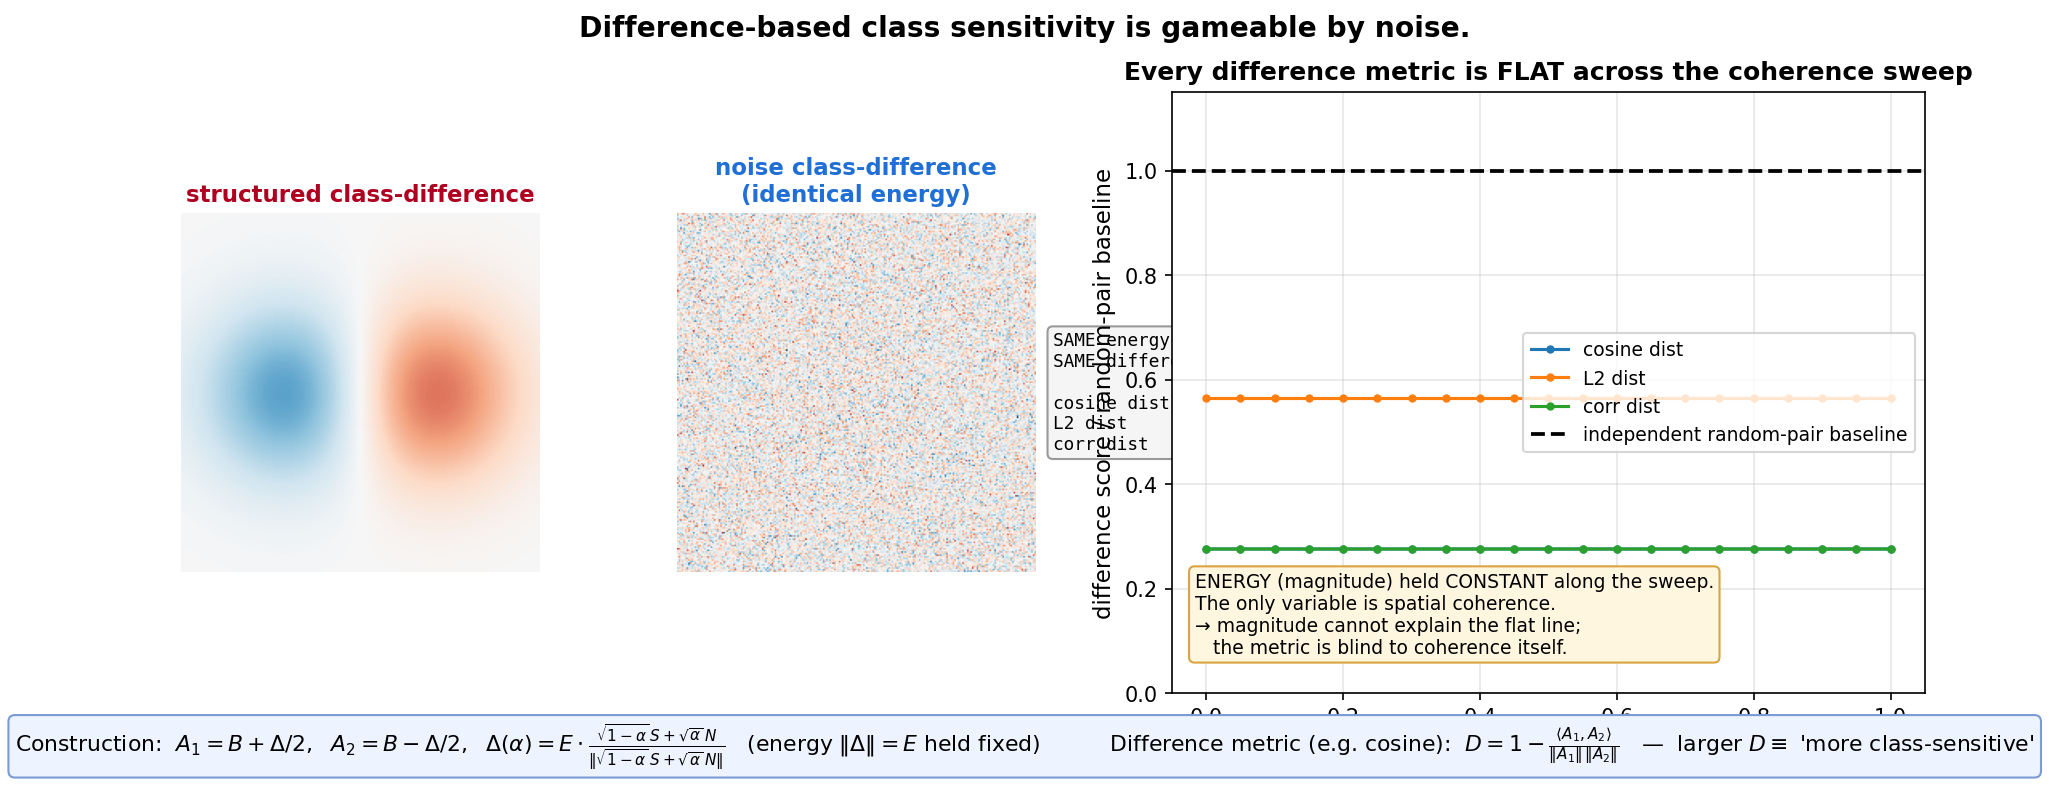
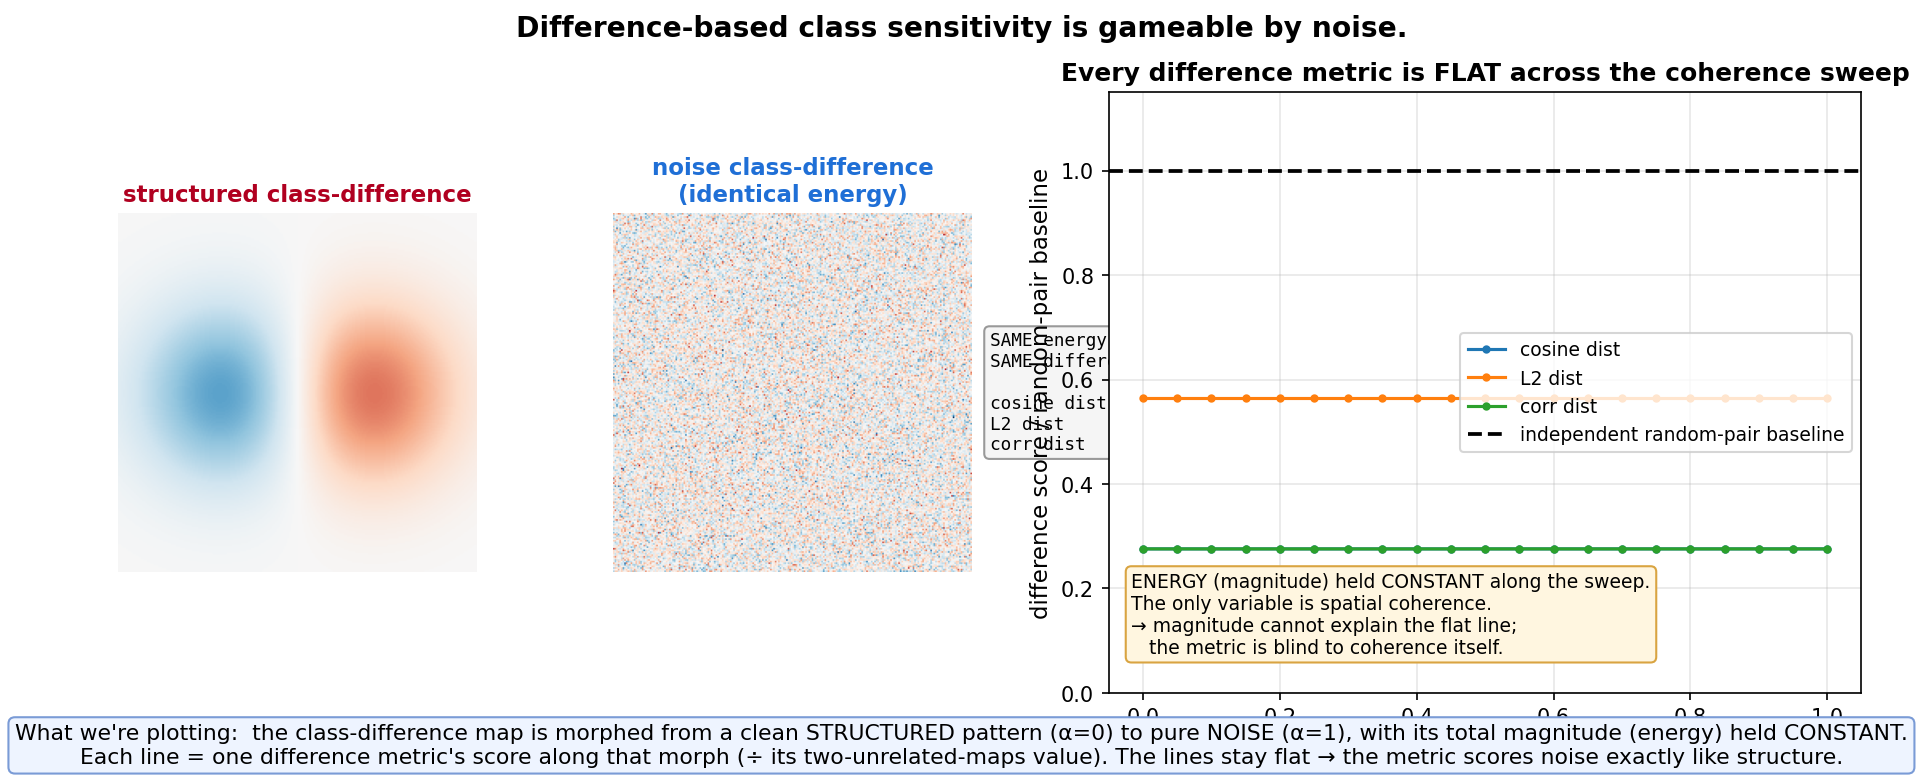
Add coherence-difference payoff figure; replace formula with plain notes
Second figure (CS_struct section payoff): coherence difference (renamed from
CS_struct) collapses structure->noise while difference metrics stay flat.
Both figures: swap the dense formula for a plain "what we're plotting" note.

diff --git a/infocube-main/diff_metric_blindness.py b/infocube-main/diff_metric_blindness.py
@@ -94,17 +94,52 @@ axs.text(0.03, 0.06,
          transform=axs.transAxes, va='bottom', ha='left', fontsize=9,
          bbox=dict(boxstyle='round', fc='#fff6e0', ec='#d9a441'))
 plt.suptitle('Difference-based class sensitivity is gameable by noise.', fontsize=13.5, fontweight='bold')
-fig.text(0.5, 0.01,
-         r"Construction:  $A_1=B+\Delta/2,\ \ A_2=B-\Delta/2,\ \ "
-         r"\Delta(\alpha)=E\cdot\frac{\sqrt{1-\alpha}\,S+\sqrt{\alpha}\,N}{\|\sqrt{1-\alpha}\,S+\sqrt{\alpha}\,N\|}$"
-         r"   (energy $\|\Delta\|=E$ held fixed)"
-         r"          Difference metric (e.g. cosine):  $D=1-\frac{\langle A_1,A_2\rangle}{\|A_1\|\,\|A_2\|}$"
-         r"   —  larger $D\equiv$ 'more class-sensitive'",
+fig.text(0.5, 0.015,
+         "What we're plotting:  the class-difference map is morphed from a clean STRUCTURED pattern (α=0) to pure NOISE (α=1), "
+         "with its total magnitude (energy) held CONSTANT.\n"
+         "Each line = one difference metric's score along that morph (÷ its two-unrelated-maps value). "
+         "The lines stay flat → the metric scores noise exactly like structure.",
          ha='center', va='bottom', fontsize=10.5,
          bbox=dict(boxstyle='round', fc='#eef4ff', ec='#7a9bd6'))
-plt.tight_layout(rect=[0,0.075,1,0.94]); out='cs_viz_outputs/diff_metric_blindness.png'
+plt.tight_layout(rect=[0,0.085,1,0.94]); out='cs_viz_outputs/diff_metric_blindness.png'
 plt.savefig(out, dpi=150, bbox_inches='tight'); plt.close()
 flat = max(abs(np.array(v)[-1]-np.array(v)[0])/(rp[k]+EPS) for k,v in curves.items())
 print(f'sweep: difference metrics drift <= {100*flat:.1f}% of the random-pair scale, structure->noise')
 print(f'(console-only: coherence falls {100*(1-coh_curve[-1]/coh_curve[0]):.0f}% over the same sweep)')
 print('saved', out)
+
+# ══════════════════════════════════════════════════════════════════════════════════════════
+#  PAYOFF FIGURE (belongs in the CS_struct section): add the COHERENCE-DIFFERENCE metric,
+#  which measures the spatial coherence of the class-difference map and so is NOT gamed by noise.
+#  coherence-difference:  CD(A1,A2) = ||G_σ * (A1-A2)||² / ||A1-A2||²    (σ=4 Gaussian blur)
+# ══════════════════════════════════════════════════════════════════════════════════════════
+cd_coh, cd_noise = coherence(d_coh), coherence(d_noise)
+fig2 = plt.figure(figsize=(15, 5.4), facecolor='white')
+gs2 = fig2.add_gridspec(1, 3, width_ratios=[1, 1, 2.1], wspace=0.28)
+axc2 = fig2.add_subplot(gs2[0]); axc2.imshow(d_coh, cmap='RdBu_r', vmin=-vmax, vmax=vmax); axc2.axis('off')
+axc2.set_title(f'structured class-difference\ncoherence difference = {cd_coh:.2f}', fontsize=11, fontweight='bold', color='#b00020')
+axn2 = fig2.add_subplot(gs2[1]); axn2.imshow(d_noise, cmap='RdBu_r', vmin=-vmax, vmax=vmax); axn2.axis('off')
+axn2.set_title(f'noise class-difference\ncoherence difference = {cd_noise:.3f}', fontsize=11, fontweight='bold', color='#1f6fd6')
+txt2 = ('difference metrics:\n  SAME score  (fooled)\n\ncoherence difference:\n'
+        f'  {cd_coh:.2f}  vs  {cd_noise:.3f}\n  → separates them')
+axn2.text(1.05, 0.5, txt2, transform=axn2.transAxes, va='center', ha='left', fontsize=9, family='monospace',
+          bbox=dict(boxstyle='round', fc='#eafaea', ec='#4c9a4c'))
+axs2 = fig2.add_subplot(gs2[2])
+for j, (k, v) in enumerate(curves.items()):                                    # difference metrics, relative to a=0
+    axs2.plot(alphas, np.array(v)/(np.array(v)[0]+EPS), '-o', ms=3, color=cmap(j), alpha=0.55, label=f'{k} (difference)')
+axs2.plot(alphas, coh_curve/(coh_curve[0]+EPS), '-s', color='#127a12', lw=3, ms=5, label='coherence difference (proposed)')
+axs2.set_xlabel('α   (0 = pure structure  →  1 = pure noise),  energy held CONSTANT', fontsize=11)
+axs2.set_ylabel('score  (relative to α=0)', fontsize=11); axs2.set_ylim(-0.05, 1.15)
+axs2.set_title('Coherence difference collapses on noise; difference metrics stay flat', fontsize=12, fontweight='bold')
+axs2.grid(alpha=0.3); axs2.legend(fontsize=9, loc='center left')
+fig2.suptitle('A coherence-difference metric is not gameable by noise.', fontsize=13.5, fontweight='bold')
+fig2.text(0.5, 0.015,
+          "What we're plotting:  the SAME morph (structure → noise, constant energy).  "
+          "Green line = coherence difference — it measures how spatially coherent the class-difference is, so it "
+          "falls from high (structure) to ~0 (noise).\nThe faint difference-metric lines stay flat. "
+          "Only the coherence-difference metric tells structure and noise apart.",
+          ha='center', va='bottom', fontsize=10.5, bbox=dict(boxstyle='round', fc='#eafaea', ec='#4c9a4c'))
+plt.tight_layout(rect=[0,0.085,1,0.94]); out2='cs_viz_outputs/coherence_difference_payoff.png'
+plt.savefig(out2, dpi=150, bbox_inches='tight'); plt.close()
+print(f'coherence difference: structured={cd_coh:.3f}  noise={cd_noise:.3f}  (difference metrics saw them as identical)')
+print('saved', out2)
